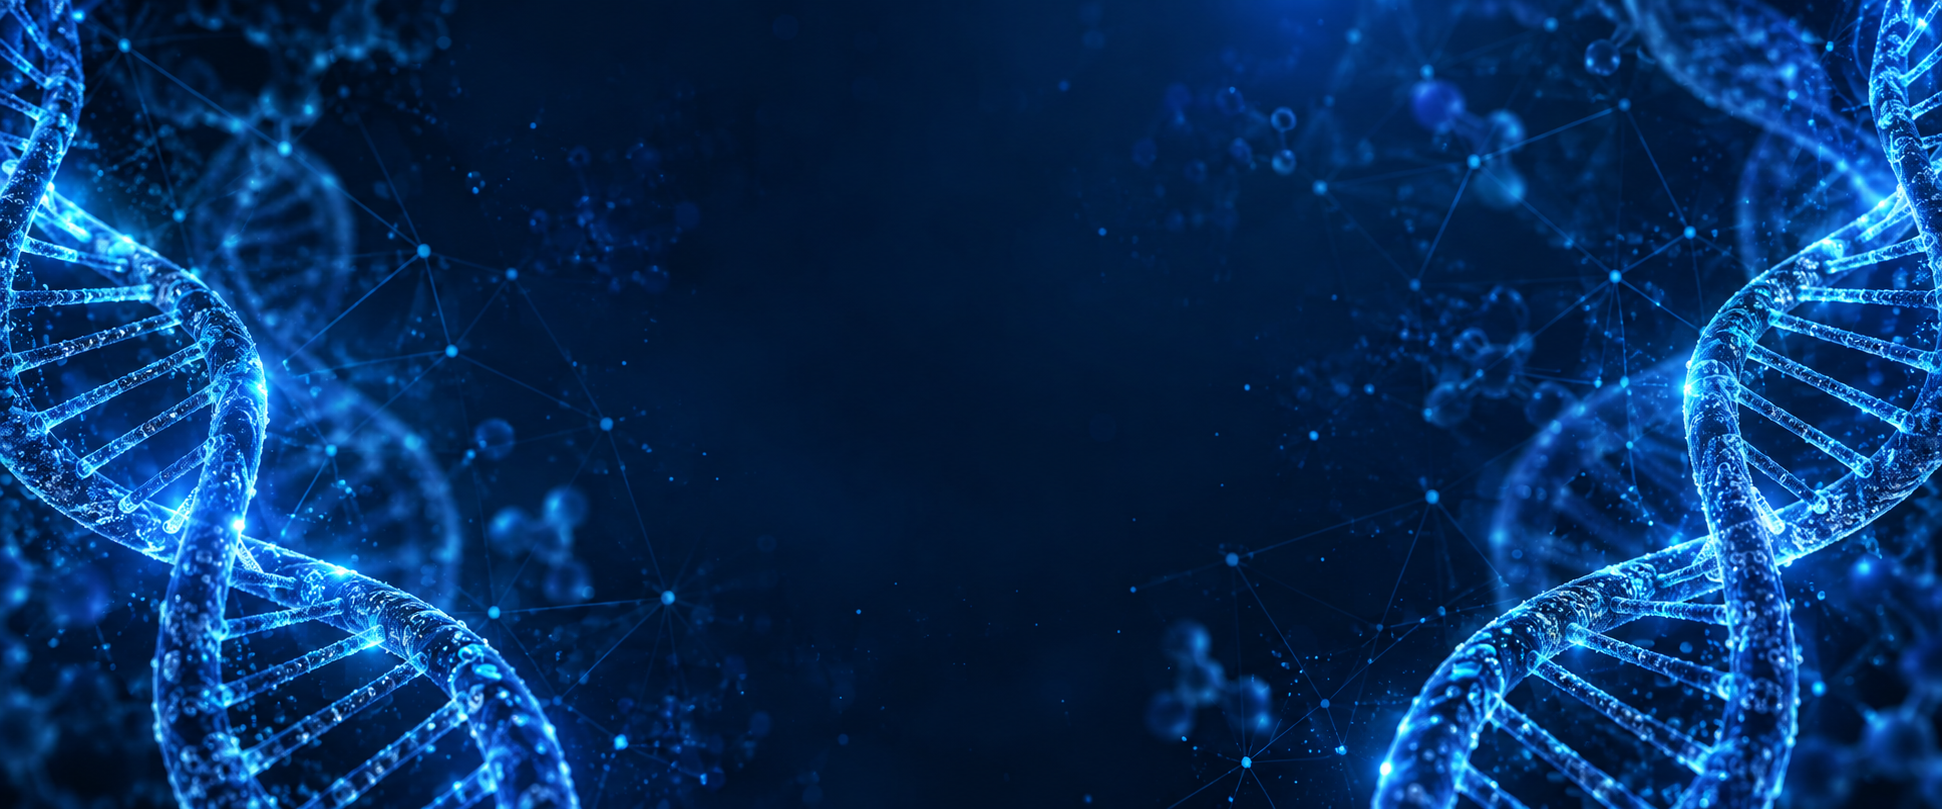
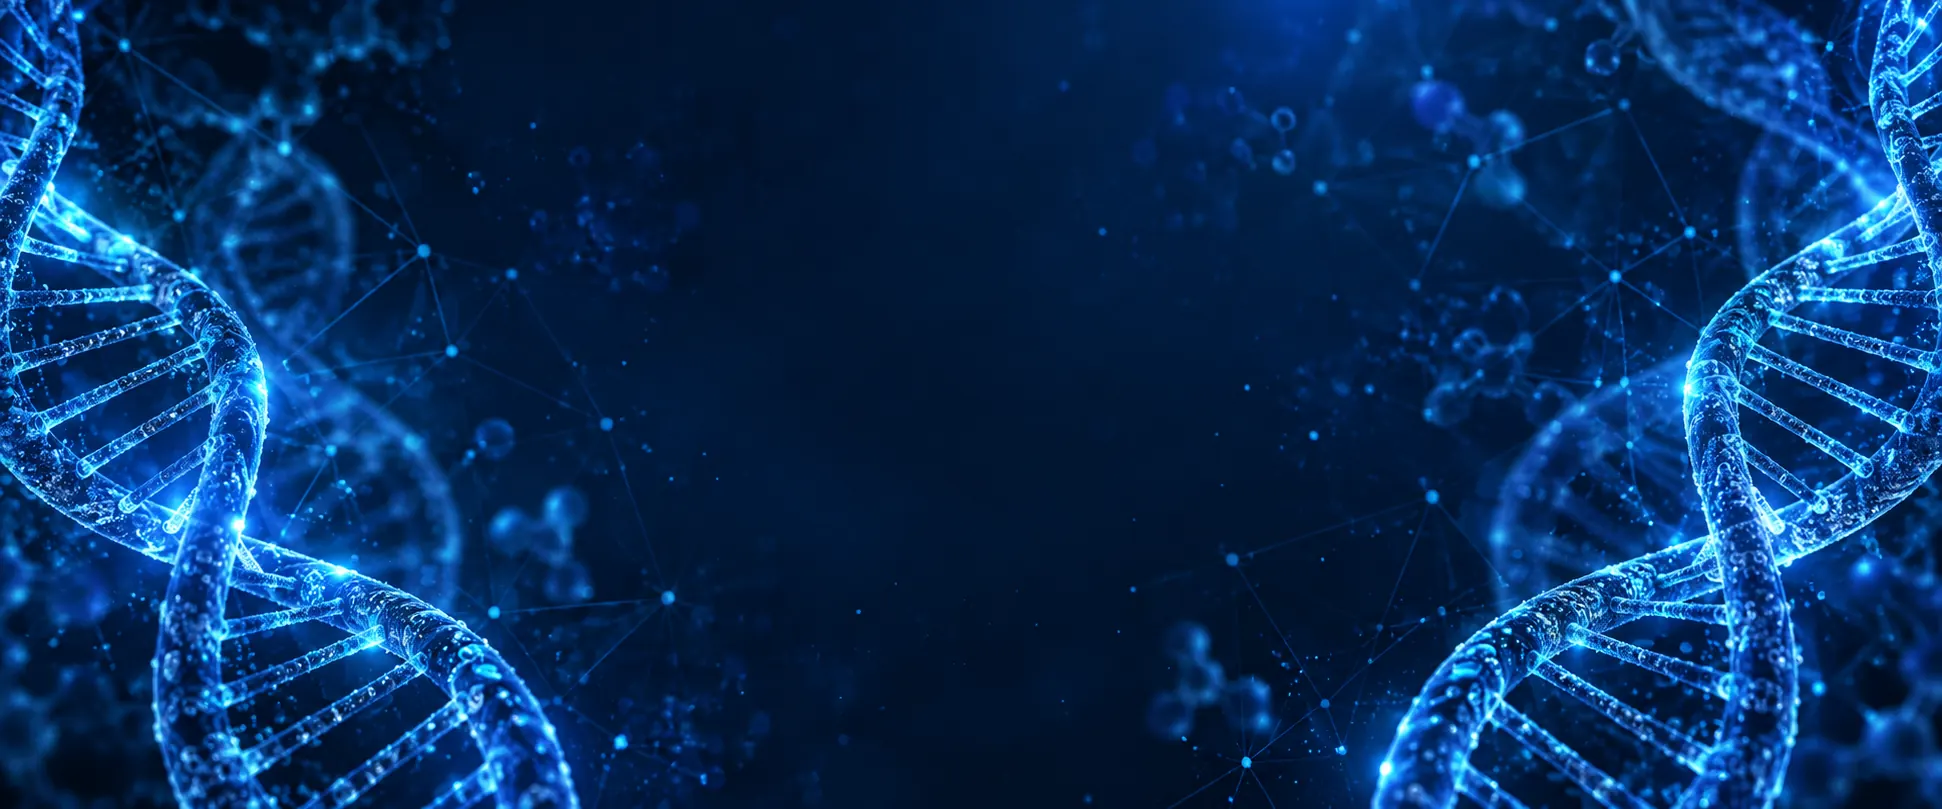
Optimize homepage hero image and loading priority

diff --git a/_layouts/default.html b/_layouts/default.html
@@ -2,6 +2,9 @@
 <!doctype html>
 <html lang="en">
 <head>
+  {% if page.url == '/' %}
+  <link rel="preload" as="image" href="{{ '/assets/global-innovation-network.webp' | relative_url }}" fetchpriority="high">
+  {% endif %}
   <link rel="icon" type="image/svg+xml" href="{{ '/assets/Vaxogene.svg' | relative_url }}">
   <meta charset="utf-8">
   <meta name="viewport" content="width=device-width,initial-scale=1">
